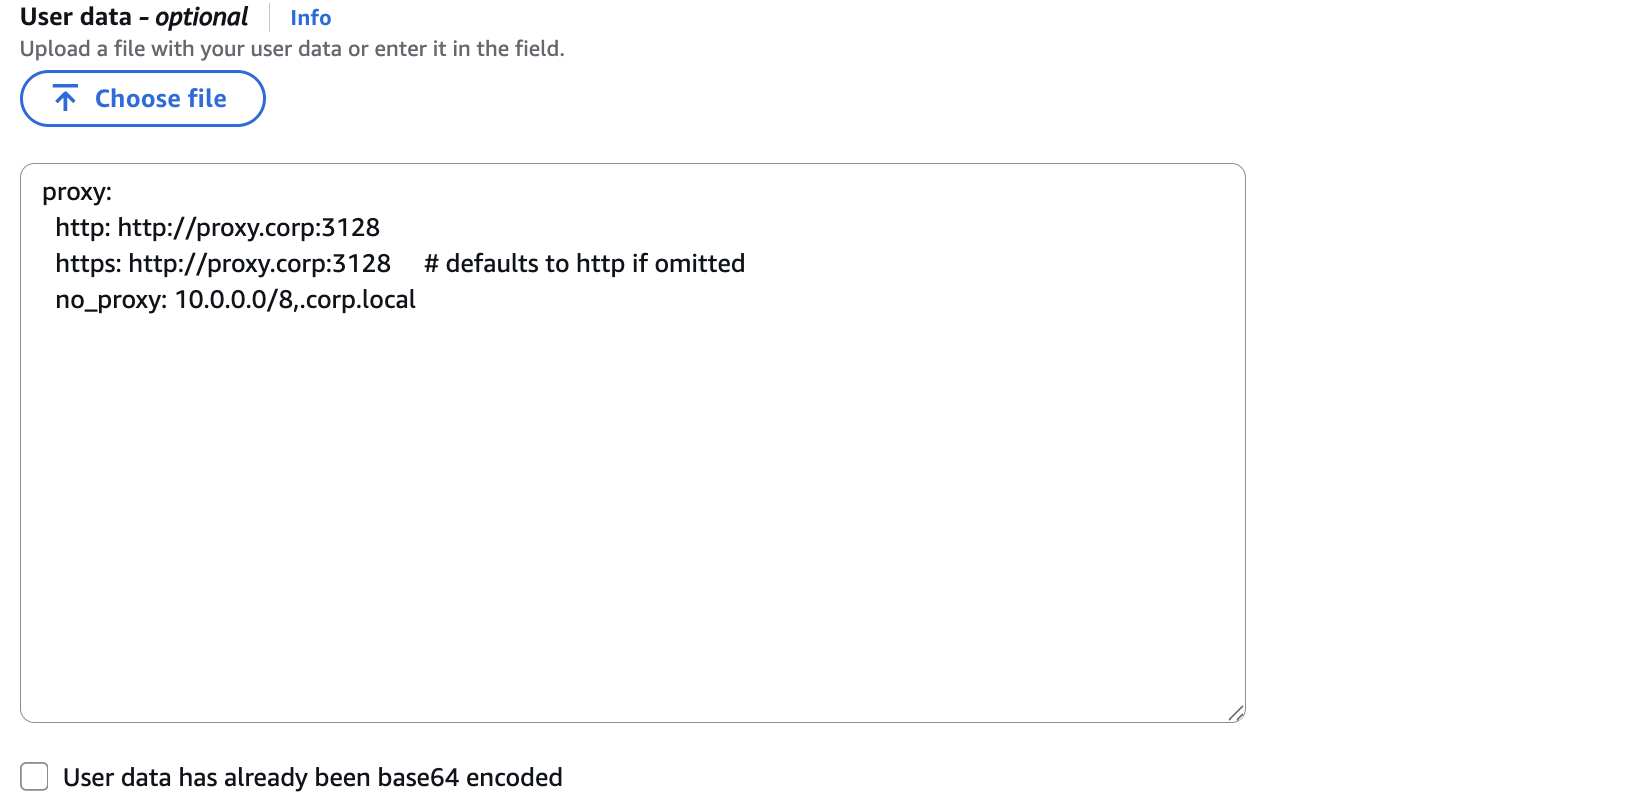
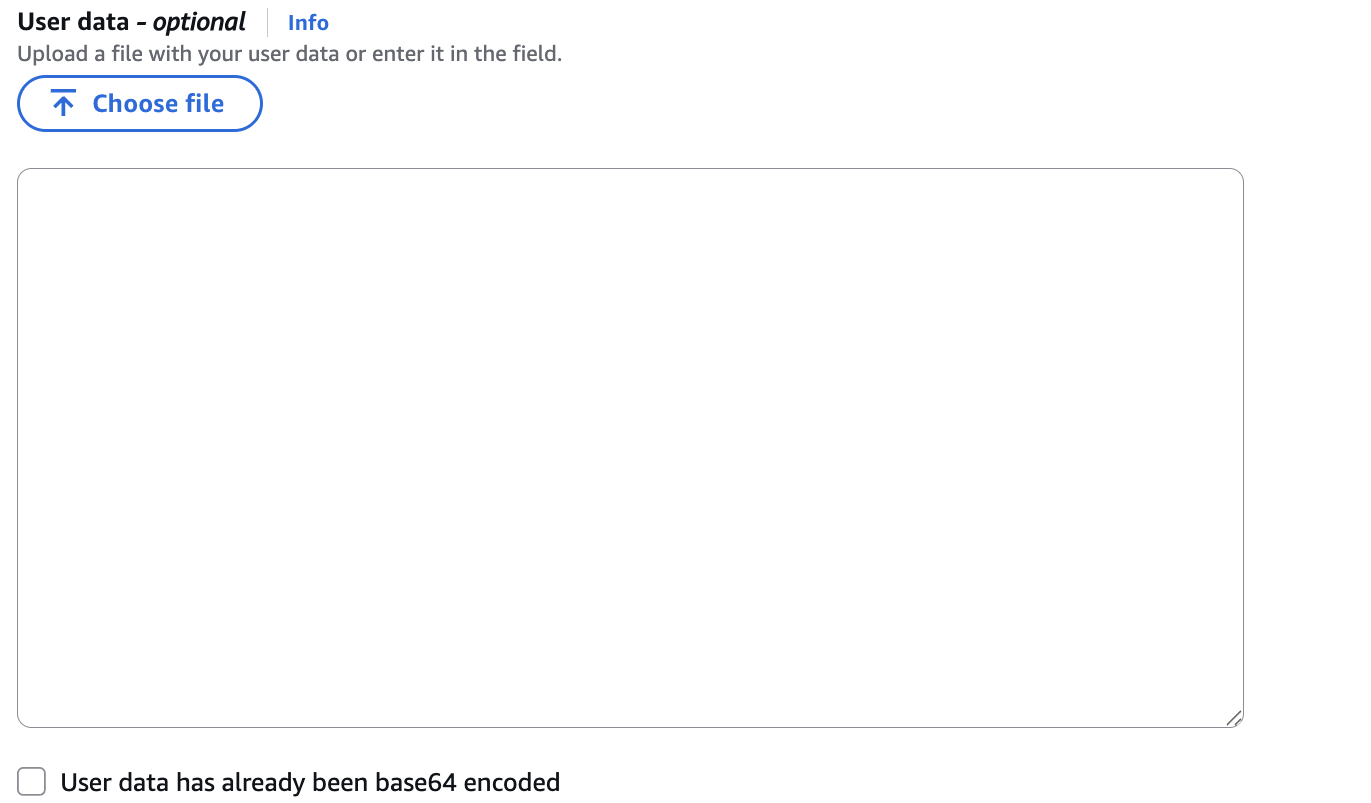
update proxy configs

diff --git a/content/docs/control-plane/intro/installation/virtual-machines/vsphere.md b/content/docs/control-plane/intro/installation/virtual-machines/vsphere.md
@@ -234,25 +234,70 @@ The gateway can usually be found from the NSX network segment configuration.
 
 ![](../images/ovhcloud-iso-7.png)
 
-### Proxy Configuration
+### Proxy and Harbor Configuration
 
-If your network requires outbound traffic to go through a proxy, you can
-configure this via vSphere's guest info parameters.
+If the appliance doesn't have direct internet access, configure an HTTP proxy, a
+local Harbor registry mirror, or both through vSphere's guest info parameters
+before powering on the virtual machine.
 
-Add the following parameter under **Advanced Parameters**:
+### What needs to be reachable
 
-| Parameter            | Description                      |
-| -------------------- | -------------------------------- |
-| `guestinfo.userdata` | Your proxy config, as plain YAML |
+Plakar Control Plane requires HTTPS access to `api.plakar.io` for runtime
+configuration, license validation, and plugin downloads. If your proxy uses a
+whitelist instead of allowing all outbound traffic, you need to add
+`*.plakar.io`
 
-```yml
-proxy: { http: "http://proxy.corp:3128", no_proxy: "10.0.0.0/8,.corp.local" }
+The appliance also needs to pull container images from `docker.io` and
+`ghcr.io`. There are two supported approaches:
+
+1. **Route image pulls through the HTTP proxy.** If you choose this option, the
+   proxy should allow access to:
+   - `.docker.io`
+   - `.docker.com`
+   - `.ghcr.io`
+   - `.githubusercontent.com`
+
+2. **Use a Harbor registry mirror.** This is the recommended approach for
+   production deployments because images are pulled from a local registry cache
+   instead of the public internet. When using Harbor, you don't need to
+   whitelist the Docker and GitHub domains above on your proxy.
+
+### Guest info configuration
+
+Add the following advanced parameter under **Advanced Parameters**:
+
+| Parameter            | Description                                                        |
+| -------------------- | ------------------------------------------------------------------ |
+| `guestinfo.userdata` | Cloud-init configuration containing proxy and/or registry settings |
+
+The value of `guestinfo.userdata` is a standard cloud-init YAML document
+containing `proxy:` and/or `registry:` sections, depending on your environment.
+
+```yaml
+#cloud-config
+proxy:
+  http: http://<proxy-ip>:<proxy-port>
+  https: http://<proxy-ip>:<proxy-port>
+  no_proxy: .corp.example,10.0.0.0/8 # optional
+
+registry:
+  mirrors:
+    docker.io: <harbor-host>/dockerhub-proxy
+    ghcr.io: <harbor-host>/ghcr-proxy
+  insecure: false # true: skip TLS verification for the mirror hosts
 ```
 
-- `http` is the only required field. If your proxy handles both HTTP and HTTPS
-  traffic on the same endpoint, `https` can be omitted, it will default to the
-  value of `http`.
-- `no_proxy` is optional and rarely needed.
+For VMware, we recommend using the equivalent single-line YAML format. The
+guestinfo.userdata field is a single-line input rather than a multi-line text
+area, so line breaks are removed when the value is entered. Using the compact
+representation makes it easier to copy and paste the configuration into the
+field.
+
+<!-- prettier-ignore-start -->
+```yaml
+{ proxy: { http: "http://<proxy-ip>:<proxy-port>", https: "http://<proxy-ip>:<proxy-port>", no_proxy: ".corp.example,10.0.0.0/8" }, registry: { mirrors: { docker.io: "<harbor-host>/dockerhub-proxy", ghcr.io: "<harbor-host>/ghcr-proxy" }, insecure: false } }
+```
+<!-- prettier-ignore-end -->
 
 ### Optional: enable SSH access
 

diff --git a/content/docs/control-plane/intro/installation/aws.md b/content/docs/control-plane/intro/installation/aws.md
@@ -61,23 +61,58 @@ Instances** page in the AWS Console.
 
 ![](../images/aws-launch-instance.png)
 
-## Proxy Configuration
+## Proxy and Harbor Configuration
 
-If your network requires outbound traffic to go through a proxy, you can
-configure this via the instance's User data field when launching the instance.
+If the instance doesn't have direct internet access, configure an HTTP proxy, a
+local Harbor registry mirror, or both through the EC2 **User data** field before
+launching the instance.
 
-To configure User data, you need to select the **Lauch from EC2 Console**
-instead of the **One-click launch from AWS Marketplace** for you to be able to
-set the advanced details. From the setup page, expand the **Advanced details**
-section, the User data setup will be available as the last configuration at the
-bottom of the page
+To provide User data, choose **Launch from EC2 Console** instead of **One-click
+launch from AWS Marketplace**. This exposes the **Advanced details** section,
+where you can paste or upload a yaml file of the cloud-init configuration.
 
-- `http` is the only required field. If your proxy handles both HTTP and HTTPS
-  traffic on the same endpoint, `https` can be omitted, it will default to the
-  value of http.
-- `no_proxy` is optional and rarely needed;
+![Adding proxy and Harbor configuration to AWS User data](../images/aws-user-data.png)
 
-![Adding proxy configuration to AWS User data](../images/aws-user-data.png)
+### What needs to be reachable
+
+Plakar Control Plane requires HTTPS access to `api.plakar.io` for runtime
+configuration, license validation, and plugin downloads. If your proxy uses a
+whitelist instead of allowing all outbound traffic, you need to add
+`*.plakar.io`
+
+The appliance also needs to pull container images from `docker.io` and
+`ghcr.io`. There are two supported approaches:
+
+1. **Route image pulls through the HTTP proxy.** If you choose this option, the
+   proxy should allow access to:
+   - `.docker.io`
+   - `.docker.com`
+   - `.ghcr.io`
+   - `.githubusercontent.com`
+
+2. **Use a Harbor registry mirror.** This is the recommended approach for
+   production deployments because images are pulled from a local registry cache
+   instead of the public internet. When using Harbor, you don't need to
+   whitelist the Docker and GitHub domains above on your proxy.
+
+### User data configuration
+
+The User data is a standard cloud-init YAML document containing `proxy:` and/or
+`registry:` sections, depending on your environment.
+
+```yaml
+#cloud-config
+proxy:
+  http: http://<proxy-ip>:<proxy-port>
+  https: http://<proxy-ip>:<proxy-port>
+  no_proxy: .corp.example,10.0.0.0/8 # optional
+
+registry:
+  mirrors:
+    docker.io: <harbor-host>/dockerhub-proxy
+    ghcr.io: <harbor-host>/ghcr-proxy
+  insecure: false # true: skip TLS verification for the mirror hosts
+```
 
 ## Security Groups
 

diff --git a/content/docs/control-plane/intro/installation/scaleway.md b/content/docs/control-plane/intro/installation/scaleway.md
@@ -88,18 +88,54 @@ stores the database, logs, and all Plakar state.
 Attach an additional Block Storage volume with a recommended size of `1024 GB`.
 Backups themselves are stored wherever you configure using apps.
 
-## Proxy Configuration
+## Proxy and Harbor Configuration
 
-If your network requires outbound traffic to go through a proxy, you can
-configure this via Scaleway's cloud-init user data field when creating the
-instance.
+If the instance doesn't have direct internet access, configure an HTTP proxy, a
+local Harbor registry mirror, or both through Scaleway's **cloud-init user
+data** before creating the instance.
 
-- `http` is the only required field. If your proxy handles both HTTP and HTTPS
-  traffic on the same endpoint, `https` can be omitted, it will default to the
-  value of http.
-- `no_proxy` is optional and rarely needed;
+![Adding proxy and Harbor configuration to Scaleway cloud-init](../images/scaleway-cloud-init.png)
 
-![Adding proxy configuration to Scaleway cloud init](../images/scaleway-cloud-init.png)
+### What needs to be reachable
+
+Plakar Control Plane requires HTTPS access to `api.plakar.io` for runtime
+configuration, license validation, and plugin downloads. If your proxy uses a
+whitelist instead of allowing all outbound traffic, you need to add
+`*.plakar.io`
+
+The appliance also needs to pull container images from `docker.io` and
+`ghcr.io`. There are two supported approaches:
+
+1. **Route image pulls through the HTTP proxy.** If you choose this option, the
+   proxy should allow access to:
+   - `.docker.io`
+   - `.docker.com`
+   - `.ghcr.io`
+   - `.githubusercontent.com`
+
+2. **Use a Harbor registry mirror.** This is the recommended approach for
+   production deployments because images are pulled from a local registry cache
+   instead of the public internet. When using Harbor, you don't need to
+   whitelist the Docker and GitHub domains above on your proxy.
+
+### Cloud-init configuration
+
+The cloud-init user data is a standard YAML document containing `proxy:` and/or
+`registry:` sections, depending on your environment.
+
+```yaml
+#cloud-config
+proxy:
+  http: http://<proxy-ip>:<proxy-port>
+  https: http://<proxy-ip>:<proxy-port>
+  no_proxy: .corp.example,10.0.0.0/8 # optional
+
+registry:
+  mirrors:
+    docker.io: <harbor-host>/dockerhub-proxy
+    ghcr.io: <harbor-host>/ghcr-proxy
+  insecure: false # true: skip TLS verification for the mirror hosts
+```
 
 ## Networking and Security Groups
 

diff --git a/content/docs/control-plane/intro/installation/exoscale.md b/content/docs/control-plane/intro/installation/exoscale.md
@@ -184,18 +184,54 @@ volume**, then select the Block Storage volume that you created.
 
 ![Attaching an Exoscale Block Storage volume](../images/attach-exoscale-block-storage.png)
 
-## Proxy Configuration
+## Proxy and Harbor Configuration
 
-If your network requires outbound traffic to go through a proxy, you can
-configure it through the instance's **User data** before the instance is
-created.
+If the instance doesn't have direct internet access, configure an HTTP proxy, a
+local Harbor registry mirror, or both through the instance's **User data**
+before creating the instance.
 
-- `http` is the only required field. If your proxy handles both HTTP and HTTPS
-  traffic on the same endpoint, `https` can be omitted and defaults to the value
-  of `http`.
-- `no_proxy` is optional and is rarely needed.
+![Adding proxy and Harbor configuration to Exoscale User data](../images/exoscale-user-data.png)
 
-![Adding proxy configuration to Exoscale User data](../images/exoscale-user-data.png)
+### What needs to be reachable
+
+Plakar Control Plane requires HTTPS access to `api.plakar.io` for runtime
+configuration, license validation, and plugin downloads. If your proxy uses a
+whitelist instead of allowing all outbound traffic, you need to add
+`*.plakar.io`
+
+The appliance also needs to pull container images from `docker.io` and
+`ghcr.io`. There are two supported approaches:
+
+1. **Route image pulls through the HTTP proxy.** If you choose this option, the
+   proxy should allow access to:
+   - `.docker.io`
+   - `.docker.com`
+   - `.ghcr.io`
+   - `.githubusercontent.com`
+
+2. **Use a Harbor registry mirror.** This is the recommended approach for
+   production deployments because images are pulled from a local registry cache
+   instead of the public internet. When using Harbor, you don't need to
+   whitelist the Docker and GitHub domains above on your proxy.
+
+### User data configuration
+
+The User data is a standard cloud-init YAML document containing `proxy:` and/or
+`registry:` sections, depending on your environment.
+
+```yaml
+#cloud-config
+proxy:
+  http: http://<proxy-ip>:<proxy-port>
+  https: http://<proxy-ip>:<proxy-port>
+  no_proxy: .corp.example,10.0.0.0/8 # optional
+
+registry:
+  mirrors:
+    docker.io: <harbor-host>/dockerhub-proxy
+    ghcr.io: <harbor-host>/ghcr-proxy
+  insecure: false # true: skip TLS verification for the mirror hosts
+```
 
 ## Security Groups
 
